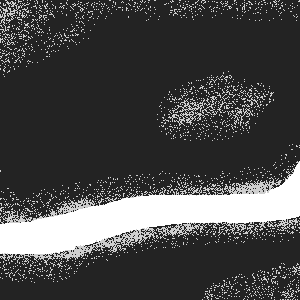
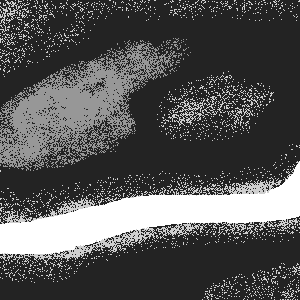
coniferous & deciduous forests distinction

Changed region(s): [[0.0, 0.12, 0.63, 0.57]]

diff --git a/scripts/model/model.py b/scripts/model/model.py
@@ -27,11 +27,6 @@ class Model:
         self.update_neigbours()
         self.sectors = []
 
-        if forest_map:
-            self.load_sectors_from_img()
-        else:
-            self.generate_random_forest()
-        
         # how huge impact has amount of burning wood on fire spread
         self.tree_factor = 4
 
@@ -43,7 +38,12 @@ class Model:
 
         # how much water evaporates from wood per frame
         self.water_evaporation_per_frame = 5
-    
+
+        if forest_map:
+            self.load_sectors_from_img()
+        else:
+            self.generate_random_forest()
+
     def load_sectors_from_img(self):
         I = cv2.imread('maps\map1.png', cv2.IMREAD_GRAYSCALE)
         for y, row in enumerate(self.grid):
@@ -51,11 +51,17 @@ class Model:
                 if I[y][x] == 255:
                     cell.make_water()
                 elif I[y][x] > 200:
-                    if random.random() <= 0.1:
-                        cell.make_tree(4) #  self.tree_factor didn't work wtf
-                elif random.random() <= 0.7:
-                    cell.make_tree(4) #  self.tree_factor didn't work wtf
-    
+                    if random.random() <= 0.2:
+                        if random.random() < 0.5:
+                            cell.make_tree(self.tree_factor, TreeType.DECIDUOUS)
+                        else:
+                            cell.make_tree(self.tree_factor, TreeType.CONIFEROUS)
+                elif I[y][x] > 150: # leafy 
+                    if random.random() <= 0.8:
+                        cell.make_tree(self.tree_factor, TreeType.DECIDUOUS)
+                elif random.random() <= 0.8:
+                    cell.make_tree(self.tree_factor, TreeType.CONIFEROUS)
+
     def generate_sectors(self):
         trees_ratio = 0.8
         grass_ratio = 0.1
@@ -73,14 +79,14 @@ class Model:
 
     def generate_random_forest(self):
         self.generate_sectors()
-        
+
         for y, row in enumerate(self.grid):
             for x, cell in enumerate(row):
                 sector_idx = (y//10 * self.sectors_x + x//10)
                 cell.sector = self.sectors[sector_idx]
                 if (cell.sector == SectorType.TREES and random.random() <= 0.7) \
-                    or (cell.sector == SectorType.GRASS and random.random() <= 0.2) :
-                    cell.make_tree(4) #  self.tree_factor didn't work wtf
+                        or (cell.sector == SectorType.GRASS and random.random() <= 0.2):
+                    cell.make_tree(self.tree_factor, TreeType.DECIDUOUS)
                 elif cell.sector == SectorType.WATER:
                     cell.make_water()
 
@@ -91,7 +97,7 @@ class Model:
 
     def reset_spot(self, row, col):
         if self.grid[row][col].is_on_fire():
-            self.grid[row][col].make_tree(self.tree_factor)
+            self.grid[row][col].make_tree(self.tree_factor, TreeType.DECIDUOUS)
             self.cells_on_fire.remove(self.grid[row][col])
 
     def reset_model(self):

diff --git a/scripts/model/cell.py b/scripts/model/cell.py
@@ -1,4 +1,4 @@
-from utils.enums import CellType, SectorType
+from utils.enums import CellType, SectorType, TreeType
 from view.spot import Spot
 import random
 
@@ -20,23 +20,23 @@ class Cell:
         self.cell_type == CellType.WATER
         self.visual.make_water()
     
-    def evaporate(self, water_evaporation_per_frame):
+    def evaporate(self, water_evaporation_per_frame: float):
         water = self.moisture * self.wood
         water -= water_evaporation_per_frame
         self.moisture = water/ self.wood
 
-    def make_fire(self, spread_per_frame):
+    def make_fire(self, spread_per_frame: float):
         self.cell_type = CellType.FIRE
         if self.wood > 0:
             self.wood -= spread_per_frame
             self.burning_wood +=  spread_per_frame
         self.visual.make_fire(self.wood, self.burning_wood, self.burned_wood)
 
-    def make_tree(self, tree_factor):
+    def make_tree(self, tree_factor: float, tree_type: TreeType):
         self.cell_type = CellType.TREE
-        self.moisture = 0.6
+        self.moisture = 0.6 if tree_type == TreeType.DECIDUOUS else 0.4
         self.wood = random.randint(10, 25) * tree_factor
-        self.visual.make_tree(self.wood)
+        self.visual.make_tree(self.wood, tree_type)
 
     def make_burned(self):
         self.cell_type == CellType.BURNED

diff --git a/scripts/view/spot.py b/scripts/view/spot.py
@@ -1,4 +1,4 @@
-from utils.enums import SectorType, ViewType
+from utils.enums import SectorType, ViewType, TreeType
 from view.colors import Color
 import pygame
 
@@ -36,9 +36,11 @@ class Spot:
     def make_burned(self, burned_wood: int):
         self.color = Color.burned[int(burned_wood-20)//20]
 
-    def make_tree(self, wood: int):
-        self.color = Color.tree[wood//20-1]
-    
+    def make_tree(self, wood: int, tree_type: TreeType):
+        if tree_type == TreeType.DECIDUOUS:
+            self.color = Color.tree[wood//20-1]
+        else:
+            self.color = Color.tree_col[wood//20-1]
     def make_water(self):
         self.color = Color.water
 

diff --git a/scripts/view/colors.py b/scripts/view/colors.py
@@ -11,8 +11,8 @@ class Color():
     grass_green = (198, 236, 174)
     burned = [(115, 105, 105), (105, 95, 95),
               (95, 85, 85), (85, 75, 75), (75, 65, 65)]
-    tree = [(114, 191, 106), (82, 164, 71),
-            (70, 146, 60), (59, 129, 50), (39, 98, 33)]
+    tree = [(108, 151, 66), (101, 141, 61) , (92, 129, 56), (88, 123, 53), (86, 120, 52)]
+    tree_col = [(72, 101, 44), (69,97,41), (67, 94, 40), (62, 86, 37), (57, 80, 35)]
     button = (250, 250, 250)
     button_pushed = (200, 210, 193)
     water = (0, 128, 208)

diff --git a/scripts/utils/enums.py b/scripts/utils/enums.py
@@ -1,5 +1,6 @@
 from enum import Enum
 
+
 class CellType(Enum):
     GROUND = 0,
     TREE = 1,
@@ -8,11 +9,18 @@ class CellType(Enum):
     GRASS = 4,
     WATER = 5,
 
+
 class SectorType(Enum):
     GRASS = 0
     TREES = 1
     WATER = 2
 
+
 class ViewType(Enum):
     MAP = 0,
     FIRE_FIGHTERS = 1
+
+
+class TreeType(Enum):
+    DECIDUOUS = 0,  # WITH LEAVES
+    CONIFEROUS = 1
